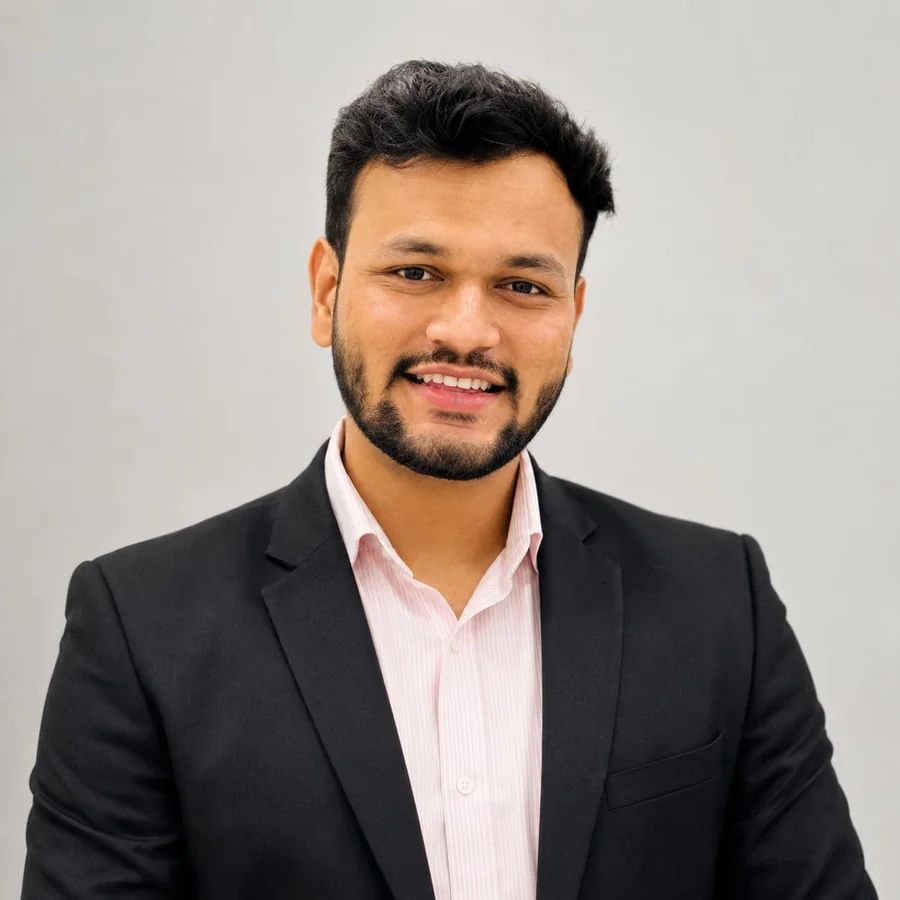
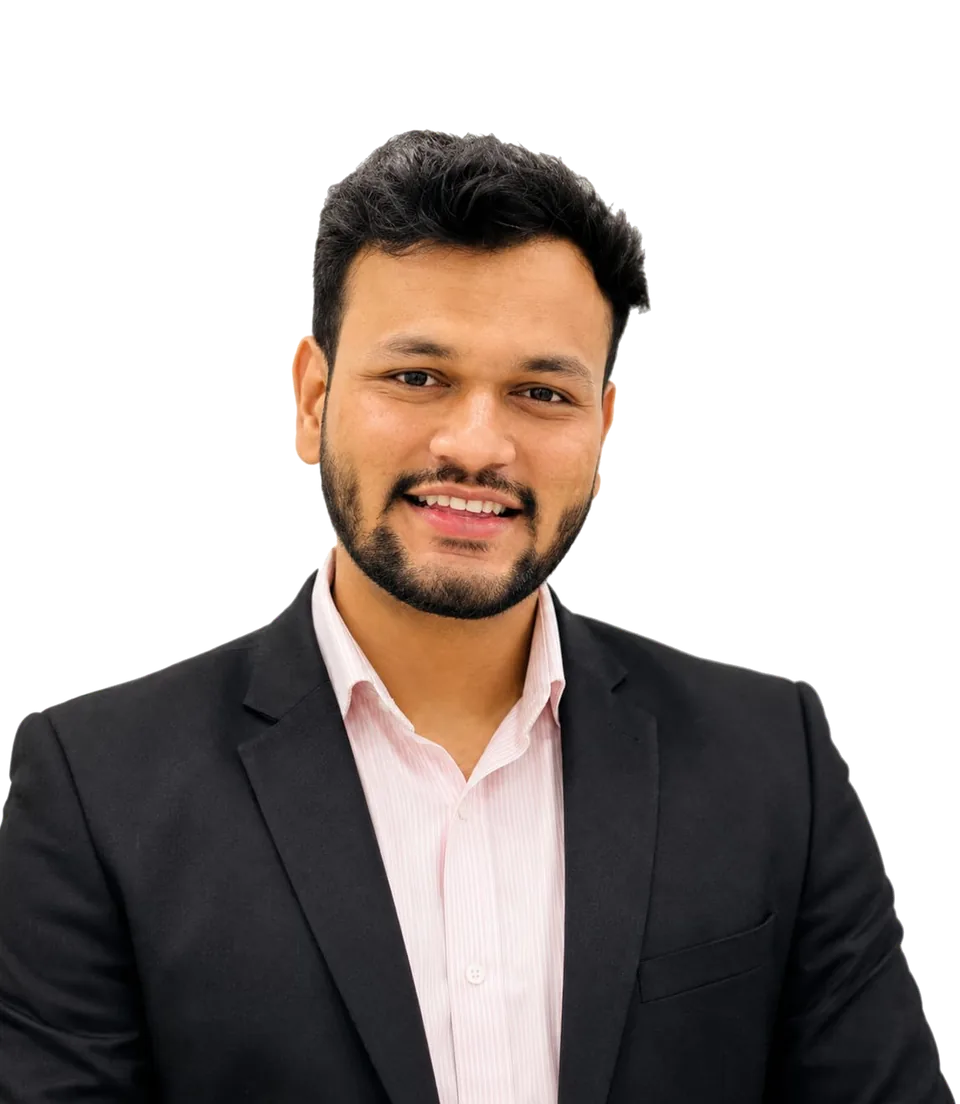
Round 5: team portraits

diff --git a/src/components/sections/Team.tsx b/src/components/sections/Team.tsx
@@ -1,5 +1,5 @@
 /** Team — reference: ref7 / ref8 ("Personal profile" slide with gradient quote card + profile row). */
-import { useState } from 'react';
+import { useState, type ReactNode } from 'react';
 import { AnimatePresence, motion } from 'framer-motion';
 import clsx from 'clsx';
 import { Plus, Quote, X } from 'lucide-react';
@@ -8,42 +8,40 @@ import { EASE, Reveal, SectionHeader } from '@/components/ui';
 import sizes from '@/data/images.json';
 
 const dims = (src: string) => (sizes as Record<string, number[]>)[src] ?? [];
-/** optional per-person photo settings (see content.ts team.founder) */
-type PhotoOpts = { photoFit?: 'cutout' | 'cover'; photoPos?: string };
 
-/** Portrait: the photo when provided, otherwise a branded monogram artwork.
- *  `fit="cutout"`: a transparent cut-out standing on the brand gradient (contained, anchored to the bottom so the
- *  head is never cropped). Otherwise the photo covers the frame; `pos` (CSS object-position) keeps the face in. */
-export function Portrait({ initials, photo, name, className, big, fit, pos }: { initials: string; photo?: string; name: string; className?: string; big?: boolean; fit?: 'cutout' | 'cover'; pos?: string }) {
+/** 3D glass logo watermark (glass variant = light backgrounds only). */
+const WATERMARK = { src: 'img/brand/logo-3d-glass-600.webp', srcSet: 'img/brand/logo-3d-glass-256.webp 256w, img/brand/logo-3d-glass-600.webp 600w, img/brand/logo-3d-glass-1200.webp 1200w' };
+
+/** Portrait (round 5, client: "the main focus should be the photo, the logo in the background").
+ *  Light neutral backdrop, the 3D glass logo large and quiet behind the person like a halo (hover: -4deg, 1.03),
+ *  the transparent cut-out on top with a soft drop shadow so the person separates from the background.
+ *  Cut-outs come from scripts/optimise-images.py, all framed identically (4:4.6, eyes at 35%), so `pos` is only a
+ *  fine-tune. No photo -> monogram on the same backdrop. `sizes` = the rendered width for srcset. */
+export function Portrait({ initials, photo, name, className, big, pos, sizes: sz }: { initials: string; photo?: string; name: string; className?: string; big?: boolean; pos?: string; sizes: string }) {
   const [w, h] = photo ? dims(photo) : [];
-  const globe = (
-    <svg className="absolute -bottom-[30%] -right-[25%] h-[110%] w-[110%] text-white/[0.09]" viewBox="0 0 200 200" aria-hidden>
-      <circle cx="100" cy="100" r="96" fill="none" stroke="currentColor" />
-      {[20, 45, 70].map((rx) => <ellipse key={rx} cx="100" cy="100" rx={rx} ry="96" fill="none" stroke="currentColor" />)}
-      {[-60, -30, 0, 30, 60].map((y) => <ellipse key={y} cx="100" cy={100 + y} rx={Math.sqrt(96 * 96 - y * y)} ry={8} fill="none" stroke="currentColor" />)}
-    </svg>
-  );
+  const small = photo?.replace(/\.webp$/, '-480.webp');
+  const srcSet = photo && small && dims(small).length ? `${small} 480w, ${photo} ${w}w` : undefined;
   return (
-    <div className={clsx('isolate overflow-hidden', className)} style={{ background: 'radial-gradient(120% 100% at 25% 0%, #5AA5FF 0%, #0361DB 42%, #01152D 100%)' }}>
+    <div className={clsx('isolate overflow-hidden bg-[linear-gradient(180deg,#FFFFFF_0%,#EEF3F9_100%)]', className)}>
+      <img src={WATERMARK.src} srcSet={WATERMARK.srcSet} sizes={big ? '360px' : '(min-width: 768px) 28vw, 80vw'} alt="" aria-hidden width={600} height={582} loading="lazy" decoding="async"
+        className="pointer-events-none absolute left-[10%] top-[5%] w-[80%] select-none opacity-[.17] [filter:saturate(.8)] transition-transform duration-[1.2s] ease-out group-hover:-rotate-[4deg] group-hover:scale-[1.03]" />
       {photo ? (
-        <>
-          {fit === 'cutout' && globe}
-          <img src={photo} alt={`Portrait of ${name}`} width={w} height={h} loading="lazy" decoding="async"
-            className={clsx('absolute h-full w-full', fit === 'cutout' ? 'inset-x-0 bottom-0 top-[6%] h-[94%] object-contain' : 'inset-0 object-cover')}
-            style={{ objectPosition: pos ?? (fit === 'cutout' ? '50% 100%' : '50% 25%') }} />
-          {/* keeps the name / role overlay legible */}
-          <div className="absolute inset-0 bg-[linear-gradient(180deg,transparent_50%,rgba(0,9,21,.72))]" />
-        </>
+        <img src={photo} srcSet={srcSet} sizes={sz} alt={`Portrait of ${name}`} width={w} height={h} loading="lazy" decoding="async"
+          className="absolute inset-0 h-full w-full object-cover [filter:drop-shadow(0_24px_32px_rgba(1,21,45,.18))]"
+          style={{ objectPosition: pos ?? '50% 0%' }} />
       ) : (
-        <>
-          {globe}
-          <div className="absolute inset-0 bg-[linear-gradient(180deg,transparent_45%,rgba(0,9,21,.55))]" />
-          <span className={clsx('absolute left-[8%] top-[6%] font-display font-light leading-none tracking-[-0.06em] text-white/95', big ? 'text-[clamp(6rem,11vw,10rem)]' : 'text-[clamp(4.5rem,7vw,6rem)]')}>{initials}</span>
-        </>
+        <span className={clsx('absolute inset-0 grid place-items-center font-display font-light leading-none tracking-[-0.06em] text-navy/80', big ? 'text-[clamp(6rem,11vw,9rem)]' : 'text-[clamp(4.5rem,7vw,6rem)]')}>{initials}</span>
       )}
+      {/* faint rim light along the top edge */}
+      <div className="pointer-events-none absolute inset-x-0 top-0 h-px bg-gradient-to-r from-transparent via-white to-transparent" />
     </div>
   );
 }
+
+/** Tenure as a small light pill (off the photo, round 5). */
+const Pill = ({ children }: { children: ReactNode }) => (
+  <span className="inline-flex h-7 shrink-0 items-center rounded-full bg-ice px-3 text-[12px] font-semibold text-brand ring-1 ring-brand/10">{children}</span>
+);
 
 function Member({ m, i }: { m: (typeof team.members)[number]; i: number }) {
   const [open, setOpen] = useState(false);
@@ -51,12 +49,7 @@ function Member({ m, i }: { m: (typeof team.members)[number]; i: number }) {
     <motion.article initial={{ opacity: 0, y: 40 }} whileInView={{ opacity: 1, y: 0 }} viewport={{ once: true, amount: 0.2 }} transition={{ duration: 0.9, ease: EASE, delay: i * 0.1 }}
       className="group relative overflow-hidden rounded-[2rem] bg-white shadow-lift">
       <div className="relative aspect-[4/4.6]">
-        <Portrait initials={m.initials} photo={m.photo} name={m.name} fit={(m as PhotoOpts).photoFit} pos={(m as PhotoOpts).photoPos} className="absolute inset-0 transition-transform duration-[1.2s] ease-out group-hover:scale-[1.04]" />
-        <span className="absolute right-4 top-4 rounded-full border border-white/20 bg-navy/50 px-3 py-1 text-[12px] font-semibold text-white backdrop-blur-md">{m.tenure}</span>
-        <div className="absolute inset-x-0 bottom-0 p-6 text-white">
-          <h3 className="font-display text-[26px] font-semibold tracking-[-0.03em]">{m.name}</h3>
-          <p className="mt-0.5 text-[14px] font-medium text-[#BFDCFF]">{m.role}</p>
-        </div>
+        <Portrait initials={m.initials} photo={m.photo} name={m.name} pos={m.photoPos} sizes="(min-width: 1280px) 384px, (min-width: 768px) 31vw, calc(100vw - 32px)" className="absolute inset-0" />
         {/* bio overlay */}
         <AnimatePresence>
           {open && (
@@ -69,7 +62,14 @@ function Member({ m, i }: { m: (typeof team.members)[number]; i: number }) {
           )}
         </AnimatePresence>
       </div>
-      <div className="flex items-center justify-between gap-4 p-5">
+      <div className="flex items-start justify-between gap-3 border-t border-navy/[0.06] px-6 pt-5">
+        <div>
+          <h3 className="font-display text-[24px] font-semibold leading-tight tracking-[-0.03em] text-navy">{m.name}</h3>
+          <p className="mt-0.5 text-[15px] font-medium text-brand">{m.role}</p>
+        </div>
+        <Pill>{m.tenure}</Pill>
+      </div>
+      <div className="flex items-center justify-between gap-4 px-6 pb-6 pt-3">
         <p className="line-clamp-2 text-[14px] leading-relaxed text-muted">{m.bio[0]}</p>
         <button onClick={() => setOpen((o) => !o)} aria-label={open ? `Close ${m.name} bio` : `Read ${m.name} bio`} aria-expanded={open}
           className={clsx('grid h-11 w-11 shrink-0 place-items-center rounded-full transition-all duration-300', open ? 'bg-navy text-white' : 'bg-ice text-brand hover:bg-brand hover:text-white')}>
@@ -89,12 +89,14 @@ export default function Team() {
 
         <Reveal className="mt-16">
           <article className="grid overflow-hidden rounded-[2.5rem] bg-white shadow-lift lg:grid-cols-[440px_1fr]">
-            <div className="relative min-h-[420px]">
-              <Portrait big initials={f.initials} photo={f.photo} name={f.name} fit={f.photoFit} pos={f.photoPos} className="absolute inset-0" />
-              <div className="absolute inset-x-0 bottom-0 p-8 text-white">
-                <span className="rounded-full border border-white/20 bg-white/10 px-3 py-1 text-[12px] font-semibold backdrop-blur-md">{f.tenure} experience</span>
-                <h3 className="mt-4 font-display text-[clamp(2rem,3.4vw,2.8rem)] font-semibold leading-none tracking-[-0.04em]">{f.name}</h3>
-                <p className="mt-2 text-[15px] font-medium text-[#BFDCFF]">{f.role}</p>
+            <div className="group flex flex-col p-3 sm:p-4 lg:border-r lg:border-navy/[0.06]">
+              <div className="relative aspect-[4/4.6] overflow-hidden rounded-[2rem] ring-1 ring-navy/[0.05]">
+                <Portrait big initials={f.initials} photo={f.photo} name={f.name} pos={f.photoPos} sizes="(min-width: 1024px) 408px, calc(100vw - 56px)" className="absolute inset-0" />
+              </div>
+              <div className="px-4 pb-5 pt-6 sm:px-5">
+                <Pill>{f.tenure} experience</Pill>
+                <h3 className="mt-3 font-display text-[clamp(1.75rem,2.6vw,2.25rem)] font-semibold leading-none tracking-[-0.04em] text-navy">{f.name}</h3>
+                <p className="mt-2 text-[15px] font-medium text-brand">{f.role}</p>
               </div>
             </div>
             <div className="flex flex-col p-8 sm:p-12">

diff --git a/src/data/content.ts b/src/data/content.ts
@@ -213,9 +213,10 @@ export const team = {
     name: 'Hitesh Vaishnav',
     role: 'Founder & CEO',
     initials: 'HV',
-    // Photos: originals in assets-src/team/, run `python scripts/optimise-images.py`, then set the .webp path here.
-    // `photoFit: 'cutout'` = transparent cut-out standing on the brand gradient; else `photoPos` is the CSS object-position.
-    photo: 'img/team/hitesh-vaishnav.webp', photoFit: 'cutout' as const, photoPos: '50% 100%',
+    // Photos (round 5): originals in assets-src/team/, run `python scripts/optimise-images.py` (cuts the person out and
+    // frames everyone identically), then set the .webp path here. `photoPos` = CSS object-position, a fine-tune only:
+    // the frames already match the card's 4:4.6 so '50% 0%' (top-anchored) is right for everyone.
+    photo: 'img/team/hitesh-vaishnav.webp', photoPos: '50% 0%',
     tenure: '14+ years',
     bio: [
       'With over 14 years of experience supporting businesses across international markets, Hitesh Vaishnav founded Passionate Global with a vision to redefine outsourcing through trust, ownership, and long-term partnerships.',
@@ -226,14 +227,14 @@ export const team = {
   },
   members: [
     {
-      name: 'Heena Vaishnav', role: 'Operations Manager', initials: 'HV', photo: 'img/team/heena-vaishnav.webp', photoPos: '50% 30%', tenure: '7+ years',
+      name: 'Heena Vaishnav', role: 'Operations Manager', initials: 'HV', photo: 'img/team/heena-vaishnav.webp', photoPos: '50% 0%', tenure: '7+ years',
       bio: [
         'Heena Vaishnav is an experienced Operations Manager with over seven years in recruitment outsourcing. She began her career in the banking sector, where she built a strong foundation in customer service and relationship management before transitioning into recruitment.',
         'Having progressed from a top-performing recruiter to a successful team leader, Heena specialises in building, mentoring, and managing high-performing teams. Her hands-on approach, operational expertise, and commitment to developing people enable her teams to consistently deliver outstanding results and exceptional service to clients.',
       ],
     },
     {
-      name: 'Dixita Rajput', role: 'Compliance Manager', initials: 'DR', photo: 'img/team/dixita-rajput.webp', photoPos: '50% 30%', tenure: '6+ years',
+      name: 'Dixita Rajput', role: 'Compliance Manager', initials: 'DR', photo: 'img/team/dixita-rajput.webp', photoPos: '50% 0%', tenure: '6+ years',
       bio: [
         'Dixita Rajput has been an integral part of the organisation for over six years, progressing from a Junior Compliance Officer to Compliance Manager through her dedication, exceptional work ethic, and commitment to excellence.',
         'Known for her meticulous attention to detail, Dixita specialises in maintaining the highest compliance standards while developing efficient processes that enable her team to deliver accurate and seamless operations. Her structured approach and focus on continuous improvement ensure both operational efficiency and outstanding service quality.',
@@ -241,7 +242,7 @@ export const team = {
     },
     {
       // NOTE: docx mixes "her"/"he" — written as "his"; confirm with client.
-      name: 'Anand Malhotra', role: 'Recruitment Manager', initials: 'AM', photo: 'img/team/anand-malhotra.webp', photoPos: '50% 30%', tenure: 'Since 2023',
+      name: 'Anand Malhotra', role: 'Recruitment Manager', initials: 'AM', photo: 'img/team/anand-malhotra.webp', photoPos: '50% 0%', tenure: 'Since 2023',
       bio: [
         'Anand started his career in the US IT sector as a recruiter. He joined us as a trainee recruiter in 2023 and has been an integral part of the team ever since.',
         'He is a self-motivated individual with a hunger for success.',

diff --git a/scripts/optimise-images.py b/scripts/optimise-images.py
@@ -4,15 +4,38 @@ Outputs: public/img/team/<slug>.webp, public/img/gallery/<slug>.webp and src/dat
 which the components use for width/height attributes.
 - Team ID-card PDFs: only the portrait image (largest embedded image + its transparency mask) is extracted, so the
   card's personal details are never published. Blank/corrupt images are skipped with a warning.
-- Gallery: EXIF-rotated, longest edge capped at GALLERY_MAX, WebP q76. Team: no upscaling, WebP q85 with alpha.
-Needs: Pillow, PyMuPDF (pip install pillow pymupdf).
+- Gallery: EXIF-rotated, longest edge capped at GALLERY_MAX, WebP q76.
+- Team (round 5 portrait treatment): every person becomes a transparent cut-out (rembg if installed, else the
+  classical matte in scripts/lib/matte.py; photos that already have alpha are kept), framed identically from the
+  landmarks in TEAM (eye line at EYE_Y of the frame, pupil distance = IPD of the frame height, 4:4.6 like the
+  cards), then written as <slug>.webp (2x, max 960 wide) + <slug>-480.webp (1x). Never upscaled: a small source
+  just gives a smaller file. The full-size cut-out is kept in assets-src/team/cutout/<slug>.png for inspection.
+  New person: add the photo, add a TEAM entry (pupil midpoint x/y and pupil distance in source pixels; read them off the
+  cut-out PNG),
+  run this script, then set `photo: 'img/team/<slug>.webp'` in content.ts. Without an entry the head is framed
+  from the cut-out's bounding box (good enough to preview).
+Needs: Pillow, PyMuPDF, numpy, scipy (pip install pillow pymupdf numpy scipy). Optional: rembg[cpu].
 """
 import io, json, os, re, sys
 from PIL import Image, ImageOps
+sys.path.insert(0, os.path.join(os.path.dirname(os.path.abspath(__file__)), 'lib'))
 
 ROOT = os.path.dirname(os.path.dirname(os.path.abspath(__file__)))
 SRC, PUB = os.path.join(ROOT, 'assets-src'), os.path.join(ROOT, 'public', 'img')
 GALLERY_MAX, TEAM_MAX = 1000, 900  # gallery cards render at most 380x340 (760x680 @2x)
+# Team framing (round 5). eye = (x, y) midpoint between the pupils, ipd = pupil-to-pupil distance, source pixels
+# (pupil distance, not head/chin: beards and hair volume would make the men look smaller).
+# matte = (lo, hi, conn, choke) for scripts/lib/matte.py (see there). Hitesh comes from his ID card with alpha.
+# IPD 11.5% of the frame height = the tightest scale that keeps every frame inside its photo (Anand is closest
+# to the camera); with the eyes at 35% every head top lands at 11-12% of the frame.
+EYE_Y, IPD, ASPECT = 0.35, 0.115, 4 / 4.6
+TEAM_W = (480, 960)
+TEAM = {
+    'hitesh-vaishnav': dict(eye=(257, 149), ipd=53),
+    'heena-vaishnav': dict(eye=(640, 393), ipd=102, matte=(5, 28, 12, .2)),
+    'dixita-rajput': dict(eye=(559, 356), ipd=110, matte=(5, 30, 12, .25)),
+    'anand-malhotra': dict(eye=(654, 391), ipd=152, matte=(4, 24, 7, .2)),
+}
 slug = lambda s: re.sub(r'[^a-z0-9]+', '-', s.lower()).strip('-')
 
 def blank(im):
@@ -46,12 +69,55 @@ def save(im, out, q, maxe):
     im.save(out, 'WEBP', quality=q, method=6)
     return im.size
 
+def cutout(im, cfg):
+    im = ImageOps.exif_transpose(im)
+    if 'A' in im.getbands() and im.convert('RGBA').getchannel('A').getextrema()[0] < 250:
+        return im.convert('RGBA')  # already transparent (e.g. the ID-card portrait)
+    try:
+        from rembg import remove, new_session
+        return remove(im.convert('RGB'), session=new_session('u2net_human_seg')).convert('RGBA')
+    except ImportError:
+        from matte import matte
+        return matte(im, *cfg.get('matte', (5, 28, 12, .2)))
+
+def frame(im, cfg):
+    """Crop the cut-out to the shared portrait frame (transparent padding where the frame leaves the photo)."""
+    W, H = im.size
+    if 'eye' in cfg:
+        (ex, ey), fh = cfg['eye'], cfg['ipd'] / IPD
+        top = ey - EYE_Y * fh
+    else:  # no landmarks: head top at 10%, body width = frame width
+        l, t, r, b = im.getbbox(); fh = (r - l) / ASPECT; ex, top = (l + r) / 2, t - .1 * fh
+    fw = fh * ASPECT
+    box = tuple(round(v) for v in (ex - fw / 2, top, ex + fw / 2, top + fh))
+    if box[3] > H + 2: print(f'  warning: frame runs {box[3] - H}px past the bottom of the photo (transparent strip)')
+    return im.crop(box)
+
+def team_portrait(im, s, sizes):
+    cfg = TEAM.get(s, {})
+    cut = cutout(im, cfg)
+    os.makedirs(os.path.join(SRC, 'team', 'cutout'), exist_ok=True)
+    cut.save(os.path.join(SRC, 'team', 'cutout', f'{s}.png'))
+    fr = frame(cut, cfg)
+    native = fr.width
+    for i, w in enumerate(TEAM_W):
+        w = min(w, native)  # never upscale
+        if i == 0 and w == native and native <= TEAM_W[0]: continue  # source too small for two sizes
+        out = fr.resize((w, round(fr.height * w / fr.width)), Image.LANCZOS)
+        rel = f'img/team/{s}.webp' if i == len(TEAM_W) - 1 else f'img/team/{s}-{w}.webp'
+        out.save(os.path.join(PUB, 'team', os.path.basename(rel)), 'WEBP', quality=82, method=6)
+        sizes[rel] = list(out.size)
+        print(f'{rel:45} {out.width}x{out.height}  {os.path.getsize(os.path.join(PUB, "team", os.path.basename(rel))) // 1024} KB')
+
 def main():
-    sizes, skipped = {}, []
+    sizes, skipped, done_team = {}, [], set()
+    for f in os.listdir(os.path.join(PUB, 'team')) if os.path.isdir(os.path.join(PUB, 'team')) else []:
+        if f.endswith('.webp'): os.remove(os.path.join(PUB, 'team', f))  # stale sizes
     for kind, q, maxe in [('team', 85, TEAM_MAX), ('gallery', 76, GALLERY_MAX)]:
         d = os.path.join(SRC, kind)
         if not os.path.isdir(d): continue
         for f in sorted(os.listdir(d)):
+            if os.path.isdir(os.path.join(d, f)): continue
             name, ext = os.path.splitext(f); ext = ext.lower()
             try:
                 if ext == '.pdf': im = pdf_portrait(os.path.join(d, f))
@@ -62,6 +128,12 @@ def main():
             if im is None or blank(im):
                 skipped.append(f'{f} (no usable image: blank or corrupt)'); continue
             s = slug(name)
+            if kind == 'team':
+                if s.replace('anandkumar', 'anand') in done_team or (ext == '.pdf' and any(
+                        os.path.splitext(g)[0] == name and g != f for g in os.listdir(d))):
+                    continue  # a photo beats the ID-card PDF of the same person
+                s = s.replace('anandkumar', 'anand'); done_team.add(s)
+                team_portrait(im, s, sizes); continue
             if kind == 'gallery':  # Award_Ceramony_2 -> award-ceremony-2 ; first photo gets -1
                 s = s.replace('ceramony', 'ceremony')
                 if not re.search(r'-\d+$', s): s += '-1'

diff --git a/scripts/lib/matte.py b/scripts/lib/matte.py
@@ -1,0 +1,65 @@
+"""Classical portrait matting for plain studio backgrounds (no ML model needed).
+
+How it works: the background is modelled as a smooth 2nd-order colour field fitted to the top / side borders;
+each pixel's CIELAB distance to it gives a trimap. Background = low-distance pixels connected to the top/side
+edges (`conn` threshold; the bottom edge is the body). Largest foreground blob, holes filled; a soft alpha ramp
+(`lo`..`hi`) in a 3px band at the boundary, ~1px feather, `choke` to kill halos, and colour decontamination
+F = (I - (1-a)B) / a so no background tint stays on hair edges.
+Lower `conn` if light clothing touching the background gets eaten (e.g. a white collar).
+Used by scripts/optimise-images.py when rembg is not installed.
+"""
+import numpy as np
+from PIL import Image
+from scipy import ndimage as ndi
+
+def srgb2lab(rgb):
+    c = rgb / 255.0
+    c = np.where(c > 0.04045, ((c + 0.055) / 1.055) ** 2.4, c / 12.92)
+    M = np.array([[0.4124, 0.3576, 0.1805], [0.2126, 0.7152, 0.0722], [0.0193, 0.1192, 0.9505]])
+    xyz = c @ M.T / np.array([0.9505, 1.0, 1.089])
+    f = np.where(xyz > 0.008856, np.cbrt(xyz), 7.787 * xyz + 16 / 116)
+    return np.stack([116 * f[..., 1] - 16, 500 * (f[..., 0] - f[..., 1]), 200 * (f[..., 1] - f[..., 2])], -1)
+
+def matte(img, lo=5, hi=28, conn=12, choke=0.2):
+    """Cut a person out of a plain studio background. Returns an RGBA PIL image."""
+    im = np.asarray(img.convert('RGB')).astype(float)
+    H, W = im.shape[:2]
+    lab = srgb2lab(im)
+    # border samples: top band + side bands down to 60% height (bottom edge = body)
+    m = np.zeros((H, W), bool); b = max(6, W // 60)
+    m[:b, :] = True; m[:int(H * .6), :b] = True; m[:int(H * .6), -b:] = True
+    yy, xx = np.mgrid[0:H, 0:W]; u, v = xx / W, yy / H
+    basis = lambda u, v: np.stack([np.ones_like(u), u, v, u * u, v * v, u * v], -1)
+    A = basis(u[m], v[m])
+    bg = np.zeros_like(im); bgl = np.zeros_like(lab)
+    for c in range(3):
+        k, *_ = np.linalg.lstsq(A, im[..., c][m], rcond=None); bg[..., c] = basis(u, v) @ k
+    bgl = srgb2lab(np.clip(bg, 0, 255))
+    d = np.sqrt(((lab - bgl) ** 2 * np.array([1.0, 1.4, 1.4])).sum(-1))
+    d = ndi.gaussian_filter(d, 0.7)
+    # background = connected to the top / side borders through low-distance pixels
+    lowish = d < conn
+    seeds = np.zeros_like(lowish); seeds[0, :] = True; seeds[:int(H * .6), 0] = True; seeds[:int(H * .6), -1] = True
+    lab_, n = ndi.label(lowish)
+    ids = np.unique(lab_[seeds & lowish]); ids = ids[ids > 0]
+    bgreg = np.isin(lab_, ids)
+    fg = ~bgreg
+    # keep the largest foreground blob, fill holes
+    l2, n2 = ndi.label(fg)
+    if n2 > 1:
+        sizes = ndi.sum(fg, l2, range(1, n2 + 1)); fg = l2 == (1 + np.argmax(sizes))
+    fg = ndi.binary_fill_holes(fg)
+    # soft alpha inside a thin band around the boundary
+    alpha = np.clip((d - lo) / (hi - lo), 0, 1)
+    edge = ndi.binary_dilation(fg, iterations=3) & ~ndi.binary_erosion(fg, iterations=3)
+    a = np.where(fg, 1.0, 0.0)
+    a = np.where(edge, alpha * ndi.binary_dilation(fg, iterations=3), a)
+    a = ndi.gaussian_filter(a, 0.6)  # ~1px feather
+    a = np.clip((a - choke) / (1 - choke), 0, 1)
+    # colour decontamination: F = (I - (1-a) B) / a at the edge
+    with np.errstate(divide='ignore', invalid='ignore'):
+        F = np.where(a[..., None] > 0.05, (im - (1 - a[..., None]) * bg) / np.maximum(a[..., None], 0.05), im)
+    F = np.where(edge[..., None], np.clip(F, 0, 255), im)
+    rgba = np.dstack([F, a * 255]).round().astype(np.uint8)
+    return Image.fromarray(rgba, 'RGBA')
+
